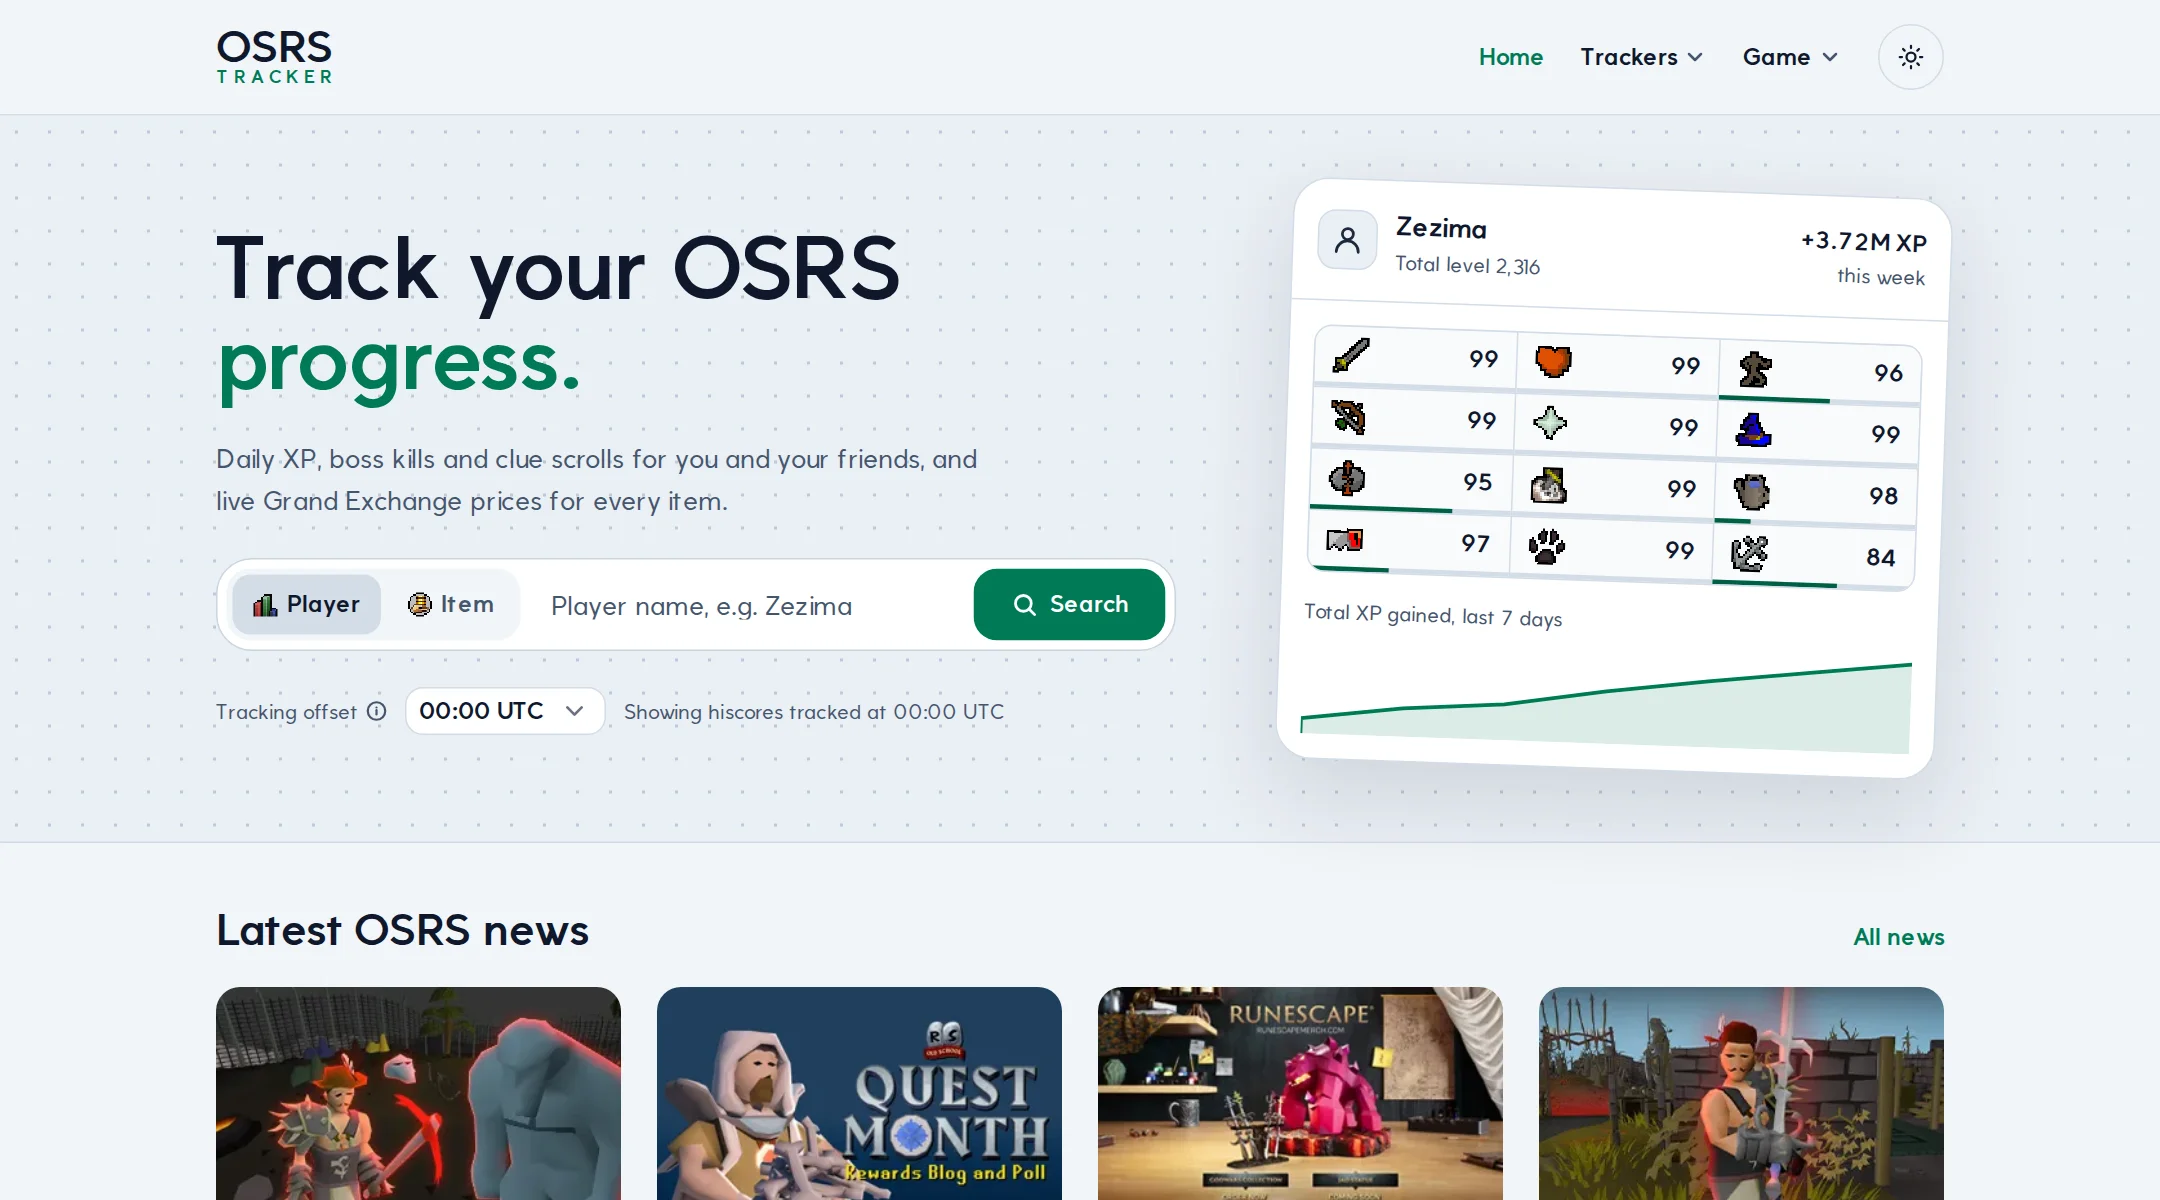
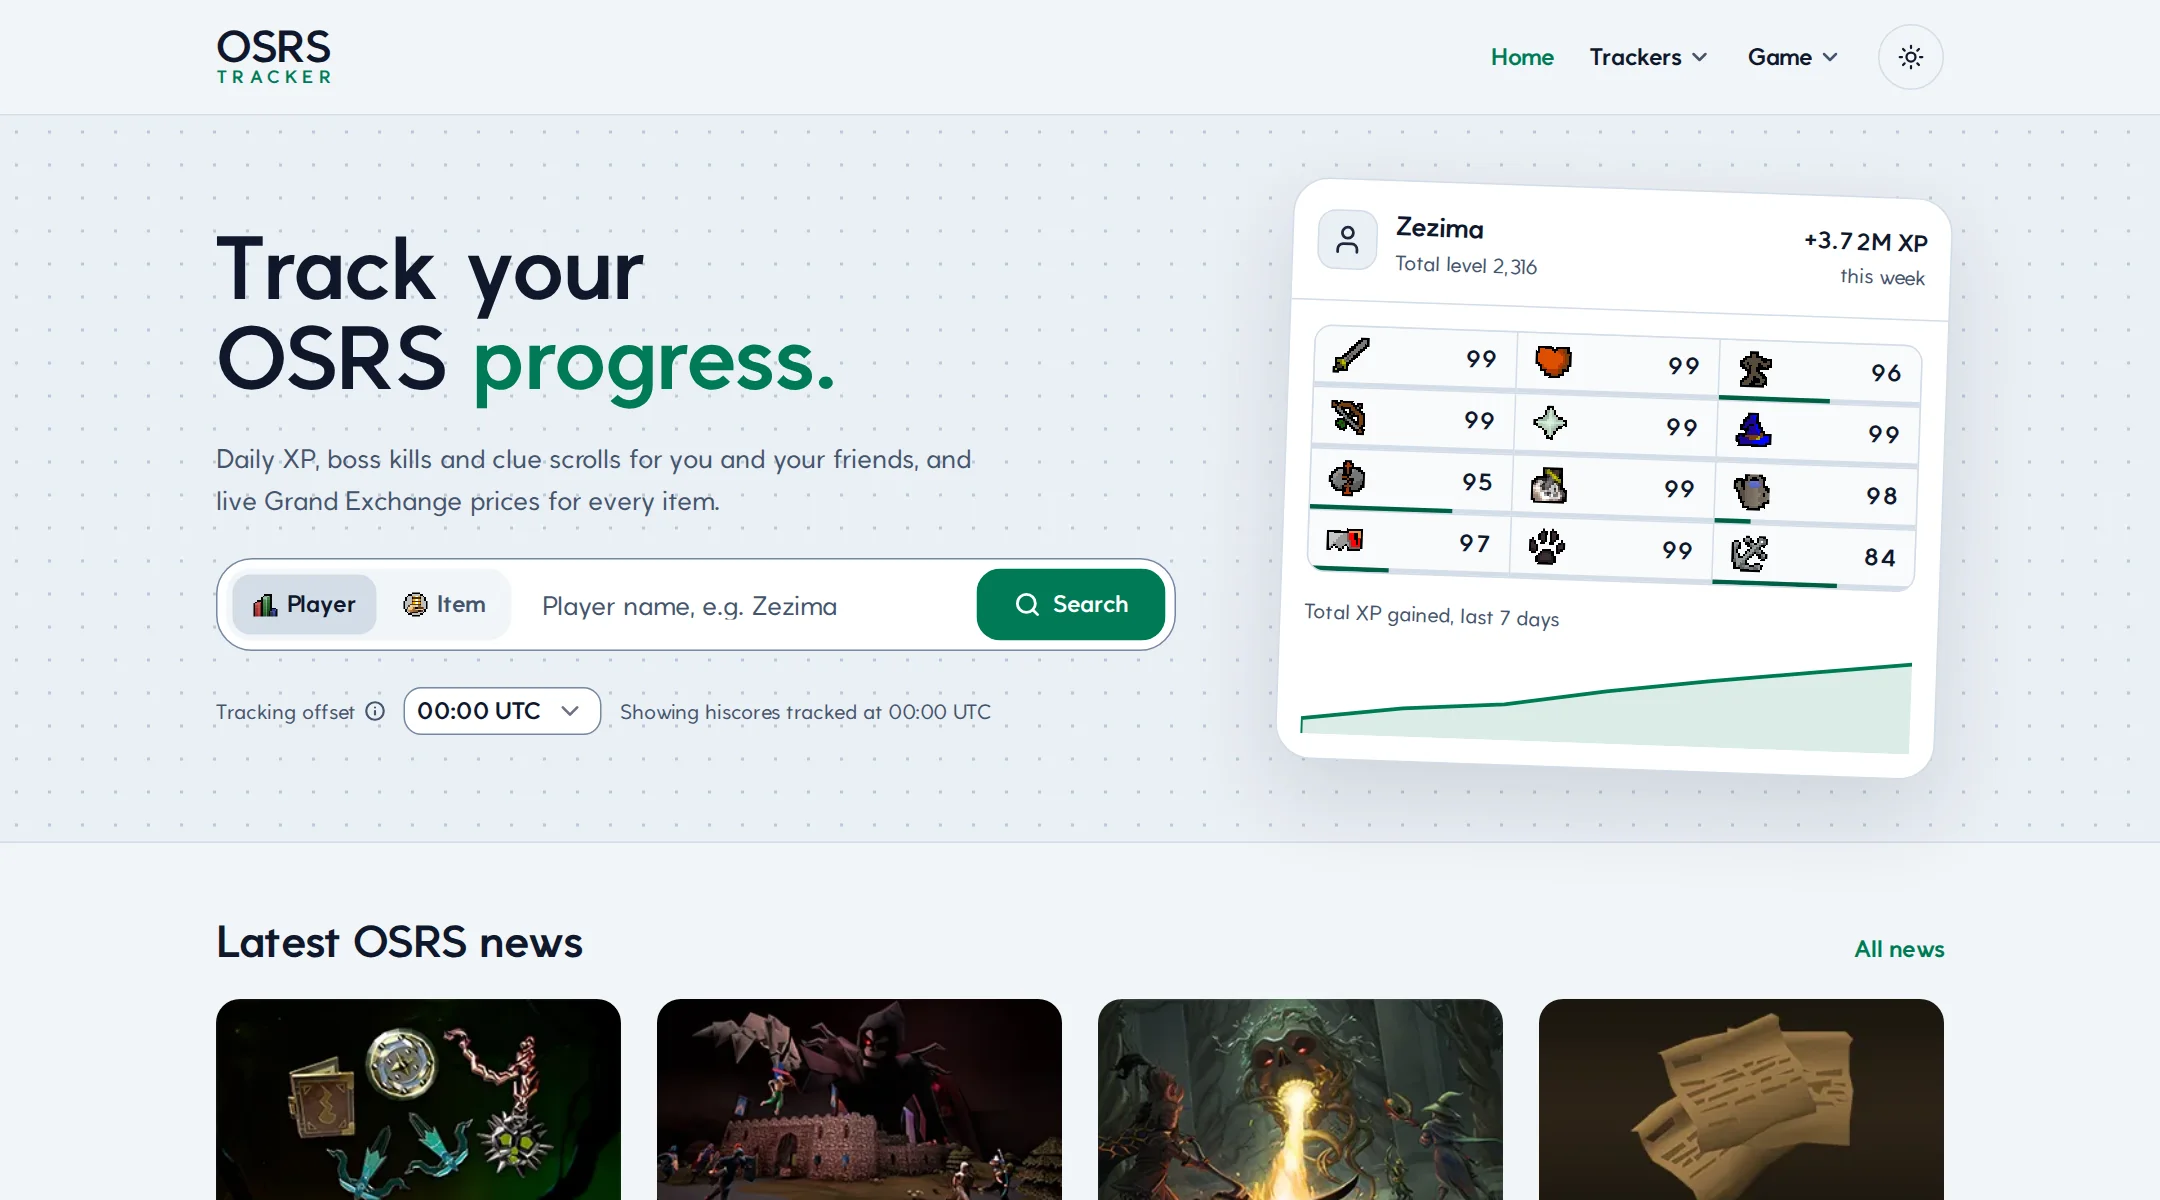
chore(home): retake OSRS Tracker's screenshots (#47)
* chore(home): retake OSRS Tracker's screenshots

The home, item and player screenshots from the live site as it is today. The item and
player crops changed height a little (825 and 854px), so their `height` and the details'
overhang follow.

Closes #46

* chore(seo): bump the sitemap's lastmod for the new screenshots

---------

diff --git a/src/app/home/projects/osrs-tracker/osrs-tracker.component.css b/src/app/home/projects/osrs-tracker/osrs-tracker.component.css
@@ -7,13 +7,13 @@
   grid-template-columns: repeat(12, minmax(0, 1fr));
 }
 /* Room for the details' overhang, so the next block's margin is the whole gap below them: 24% of the taller one
-   (1400x857, 5 of 12 columns wide). A row of its own, as a padding percentage there is of the grid's width; on .shots
+   (1400x854, 5 of 12 columns wide). A row of its own, as a padding percentage there is of the grid's width; on .shots
    it would be of the wider parent's. */
 .shots::after {
   content: '';
   grid-row: 2;
   grid-column: 1 / -1;
-  padding-top: calc(24% * 5 / 12 * 857 / 1400);
+  padding-top: calc(24% * 5 / 12 * 854 / 1400);
 }
 .shots img {
   grid-row: 1;

diff --git a/src/app/home/projects/osrs-tracker/osrs-tracker.component.ts b/src/app/home/projects/osrs-tracker/osrs-tracker.component.ts
@@ -38,14 +38,14 @@ interface Milestone {
           class="detail"
           ngSrc="/projects/osrs-tracker/item.webp"
           width="1400"
-          height="819"
+          height="825"
           alt="The Abyssal whip’s price page"
         />
         <img
           class="detail player"
           ngSrc="/projects/osrs-tracker/player.webp"
           width="1400"
-          height="857"
+          height="854"
           alt="The stats page of the player The Fraking"
         />
       </div>
